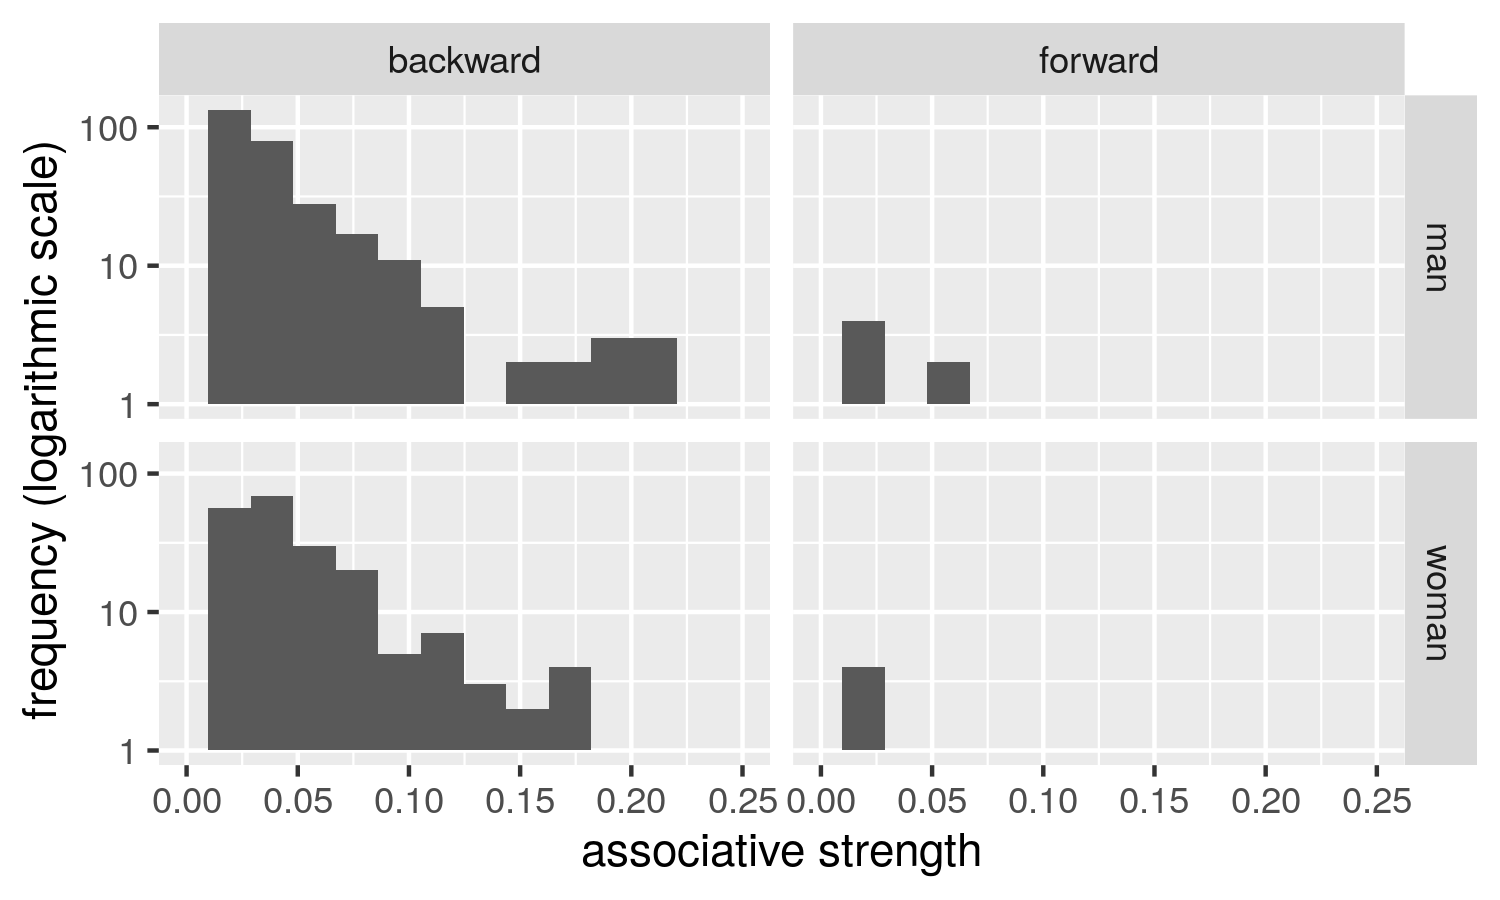
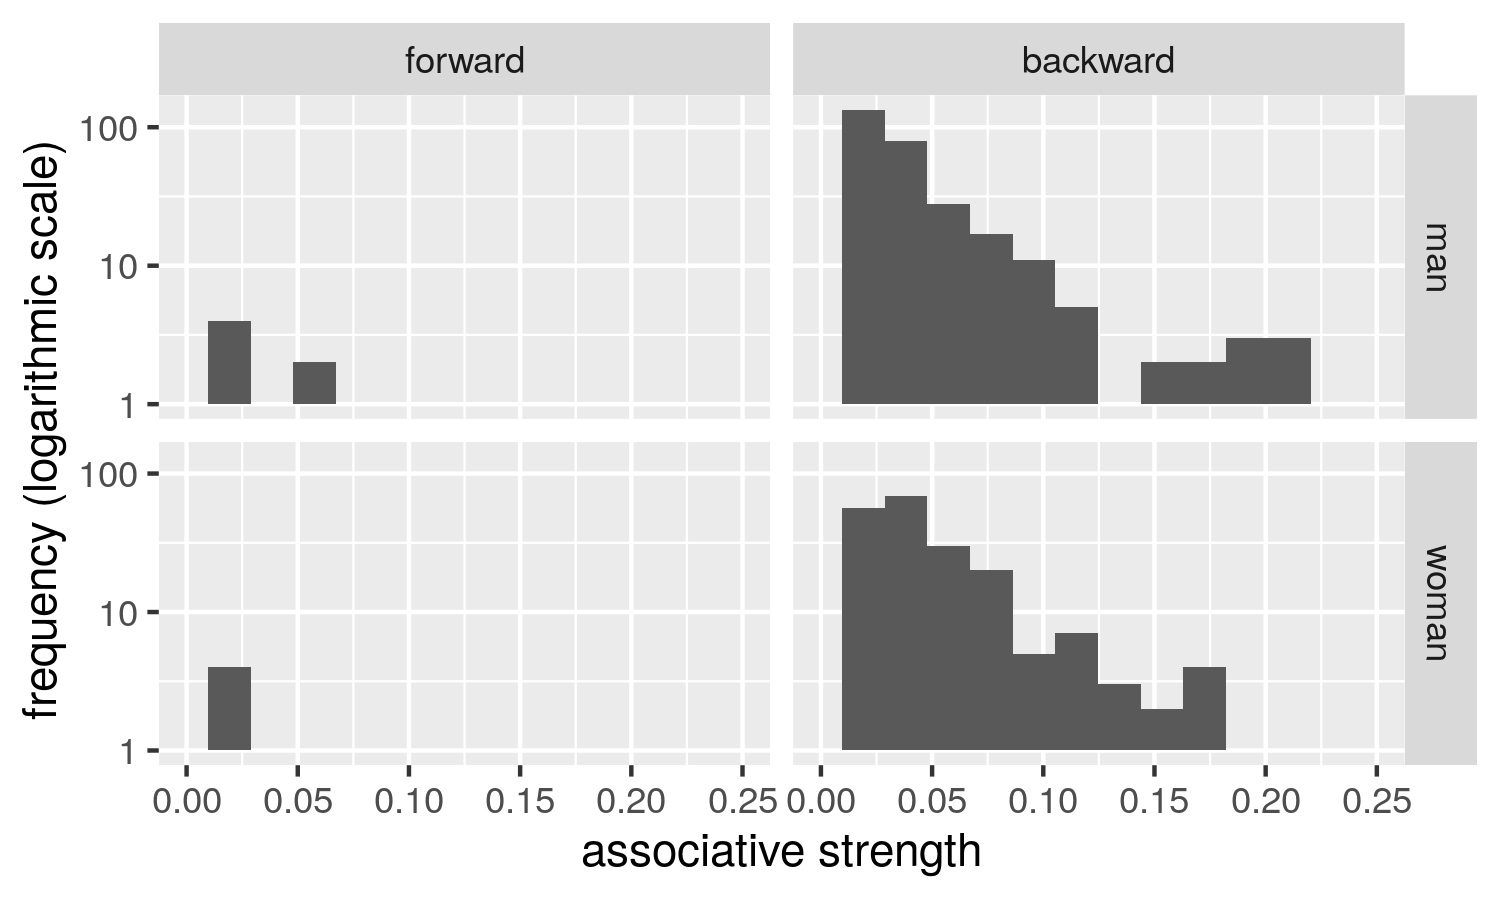
updates site links in dplyr section

diff --git a/docs/dancing/index.html b/docs/dancing/index.html
@@ -10,16 +10,16 @@
     <meta name="github-repo" content="djnavarro/robust-tools"/>
     <meta name="twitter:title" content="A dance with data using dplyr"/>
     <meta name="twitter:description" content="An introduction to data wrangling in R using tidyverse tools, featuring data from the &#39;Small World of Words&#39; study"/>
-    <meta name="twitter:url" content="https://djnavarro.github.io/robust-tools/dancing/"/>
-    <meta name="twitter:image:src" content="https://djnavarro.github.io/robust-tools/dancing/img/filter_slide.png"/>
+    <meta name="twitter:url" content="https://robust-tools.djnavarro.net/dancing/"/>
+    <meta name="twitter:image:src" content="https://robust-tools.djnavarro.net/dancing/img/filter_slide.png"/>
     <meta name="twitter:image:alt" content="Illustration of how the filter() function in the R package dplyr works, showing how to extract a small subset of the so-called &#39;Small World of Words&#39; data set. The background image is tan, and on the left hand side shows filter coffee dripping downwards."/>
     <meta name="twitter:card" content="summary_large_image"/>
     <meta name="twitter:creator" content="@djnavarro"/>
     <meta name="twitter:site" content="@djnavarro"/>
     <meta name="og:title" content="A dance with data using dplyr"/>
     <meta name="og:description" content="An introduction to data wrangling in R using tidyverse tools, featuring data from the &#39;Small World of Words&#39; study"/>
-    <meta name="og:url" content="https://djnavarro.github.io/robust-tools/dancing/"/>
-    <meta name="og:image" content="https://djnavarro.github.io/robust-tools/dancing/img/filter_slide.png"/>
+    <meta name="og:url" content="https://robust-tools.djnavarro.net/dancing/"/>
+    <meta name="og:image" content="https://robust-tools.djnavarro.net/dancing/img/filter_slide.png"/>
     <meta name="og:image:alt" content="Illustration of how the filter() function in the R package dplyr works, showing how to extract a small subset of the so-called &#39;Small World of Words&#39; data set. The background image is tan, and on the left hand side shows filter coffee dripping downwards."/>
     <meta name="og:type" content="website"/>
     <meta name="og:locale" content="en_US"/>
@@ -32,7 +32,7 @@
 class: center, middle, inverse, title-slide
 
 # &gt; 03 💃 <br> &gt; dplyr, or a dance with data
-## 🔗 <a href="https://djnavarro.link/robust-tools">djnavarro.link/robust-tools</a>
+## 🔗 <a href="https://robust-tools.djnavarro.net">robust-tools.djnavarro.net</a>
 ### danielle navarro
 
 ---
@@ -45,7 +45,7 @@ layout: true
   
 &lt;div class="my-footer"&gt;
 &lt;span&gt;
-&lt;a href="https://djnavarro.link/robust-tools" target="_blank"&gt;djnavarro.link/robust-tools&lt;/a&gt;
+&lt;a href="https://robust-tools.djnavarro.net" target="_blank"&gt;robust-tools.djnavarro.net&lt;/a&gt;
 &lt;/span&gt;
 &lt;/div&gt; 
 
@@ -871,7 +871,7 @@ gender &lt;- bind_rows(woman_fwd, woman_bck,
 ```
 *## # A tibble: 505 x 8
 ##   cue   response strength     id  rank type    word  associate
-##   &lt;chr&gt; &lt;chr&gt;       &lt;dbl&gt;  &lt;int&gt; &lt;dbl&gt; &lt;chr&gt;   &lt;chr&gt; &lt;chr&gt;    
+## * &lt;chr&gt; &lt;chr&gt;       &lt;dbl&gt;  &lt;int&gt; &lt;dbl&gt; &lt;fct&gt;   &lt;chr&gt; &lt;chr&gt;    
 ## 1 woman man          0.38 477315   1   forward woman man      
 ## 2 woman female       0.22 477316   2   forward woman female   
 ## 3 woman girl         0.07 477317   3   forward woman girl     
@@ -903,7 +903,7 @@ gender &lt;- bind_rows(woman_fwd, woman_bck,
 ```
 ## # A tibble: 505 x 5
 ##       id  rank type    word  associate
-##    &lt;int&gt; &lt;dbl&gt; &lt;chr&gt;   &lt;chr&gt; &lt;chr&gt;    
+##    &lt;int&gt; &lt;dbl&gt; &lt;fct&gt;   &lt;chr&gt; &lt;chr&gt;    
 ## 1 477315   1   forward woman man      
 ## 2 477316   2   forward woman female   
 ## 3 477317   3   forward woman girl     
@@ -933,7 +933,7 @@ gender &lt;- bind_rows(woman_fwd, woman_bck,
 ```
 ## # A tibble: 501 x 5
 ##       id  rank type    word  associate
-##    &lt;int&gt; &lt;dbl&gt; &lt;chr&gt;   &lt;chr&gt; &lt;chr&gt;    
+##    &lt;int&gt; &lt;dbl&gt; &lt;fct&gt;   &lt;chr&gt; &lt;chr&gt;    
 ## 1 477316   2   forward woman female   
 ## 2 477317   3   forward woman girl     
 ## 3 477318   4   forward woman lady     
@@ -969,11 +969,11 @@ gender %&gt;%
 ## # A tibble: 4 x 3
 ## # Groups:   word, type [4]
 ##   word  type         n
-##   &lt;chr&gt; &lt;chr&gt;    &lt;int&gt;
-## 1 man   backward   288
-## 2 man   forward      7
-## 3 woman backward   199
-## 4 woman forward      7
+##   &lt;chr&gt; &lt;fct&gt;    &lt;int&gt;
+## 1 man   forward      7
+## 2 man   backward   288
+## 3 woman forward      7
+## 4 woman backward   199
 ```
 ]
 
@@ -1306,7 +1306,7 @@ gender
 ```
 ## # A tibble: 501 x 5
 ##        id  rank type     word  associate
-##     &lt;int&gt; &lt;dbl&gt; &lt;chr&gt;    &lt;chr&gt; &lt;chr&gt;    
+##     &lt;int&gt; &lt;dbl&gt; &lt;fct&gt;    &lt;chr&gt; &lt;chr&gt;    
 ##  1 477316   2   forward  woman female   
 ##  2 477317   3   forward  woman girl     
 ##  3 477318   4   forward  woman lady     
@@ -1339,7 +1339,7 @@ gender %&gt;%
 ```
 ## # A tibble: 501 x 10
 ##        id  rank type  word  associate cue   response n_response n_total strength
-##     &lt;int&gt; &lt;dbl&gt; &lt;chr&gt; &lt;chr&gt; &lt;chr&gt;     &lt;chr&gt; &lt;chr&gt;         &lt;dbl&gt;   &lt;dbl&gt;    &lt;dbl&gt;
+##  *  &lt;int&gt; &lt;dbl&gt; &lt;fct&gt; &lt;chr&gt; &lt;chr&gt;     &lt;chr&gt; &lt;chr&gt;         &lt;dbl&gt;   &lt;dbl&gt;    &lt;dbl&gt;
 ##  1 477316   2   forw… woman female    woman female           22     100    0.22 
 ##  2 477317   3   forw… woman girl      woman girl              7     100    0.07 
 ##  3 477318   4   forw… woman lady      woman lady              5     100    0.05 
@@ -1422,6 +1422,32 @@ if (window.HTMLWidgets) slideshow.on('afterShowSlide', function (slide) {
     deleted = true;
   });
 })();
+(function() {
+  "use strict"
+  // Replace <script> tags in slides area to make them executable
+  var scripts = document.querySelectorAll(
+    '.remark-slides-area .remark-slide-container script'
+  );
+  if (!scripts.length) return;
+  for (var i = 0; i < scripts.length; i++) {
+    var s = document.createElement('script');
+    var code = document.createTextNode(scripts[i].textContent);
+    s.appendChild(code);
+    var scriptAttrs = scripts[i].attributes;
+    for (var j = 0; j < scriptAttrs.length; j++) {
+      s.setAttribute(scriptAttrs[j].name, scriptAttrs[j].value);
+    }
+    scripts[i].parentElement.replaceChild(s, scripts[i]);
+  }
+})();
+(function() {
+  var links = document.getElementsByTagName('a');
+  for (var i = 0; i < links.length; i++) {
+    if (/^(https?:)?\/\//.test(links[i].getAttribute('href'))) {
+      links[i].target = '_blank';
+    }
+  }
+})();
 // adds .remark-code-has-line-highlighted class to <pre> parent elements
 // of code chunks containing highlighted lines with class .remark-code-line-highlighted
 (function(d) {
@@ -1439,17 +1465,6 @@ if (window.HTMLWidgets) slideshow.on('afterShowSlide', function (slide) {
   }
   preParents.forEach(p => p.classList.add("remark-code-has-line-highlighted"));
 })(document);</script>
-
-<script>
-(function() {
-  var links = document.getElementsByTagName('a');
-  for (var i = 0; i < links.length; i++) {
-    if (/^(https?:)?\/\//.test(links[i].getAttribute('href'))) {
-      links[i].target = '_blank';
-    }
-  }
-})();
-</script>
 
 <script>
 slideshow._releaseMath = function(el) {
